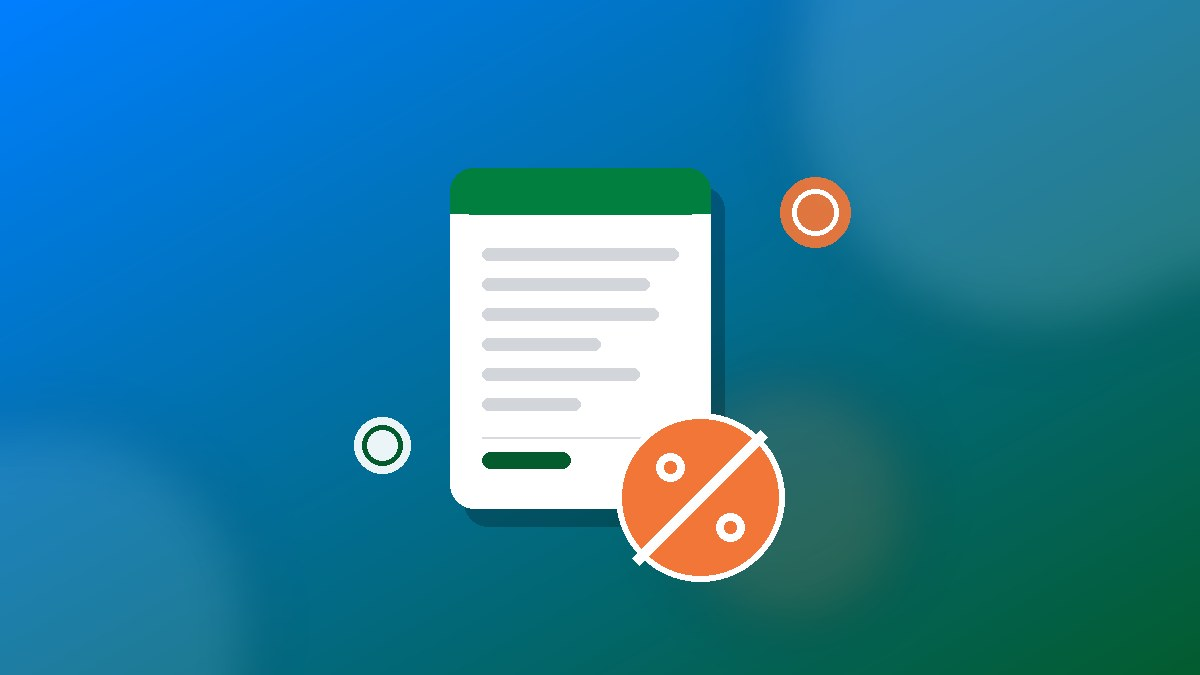
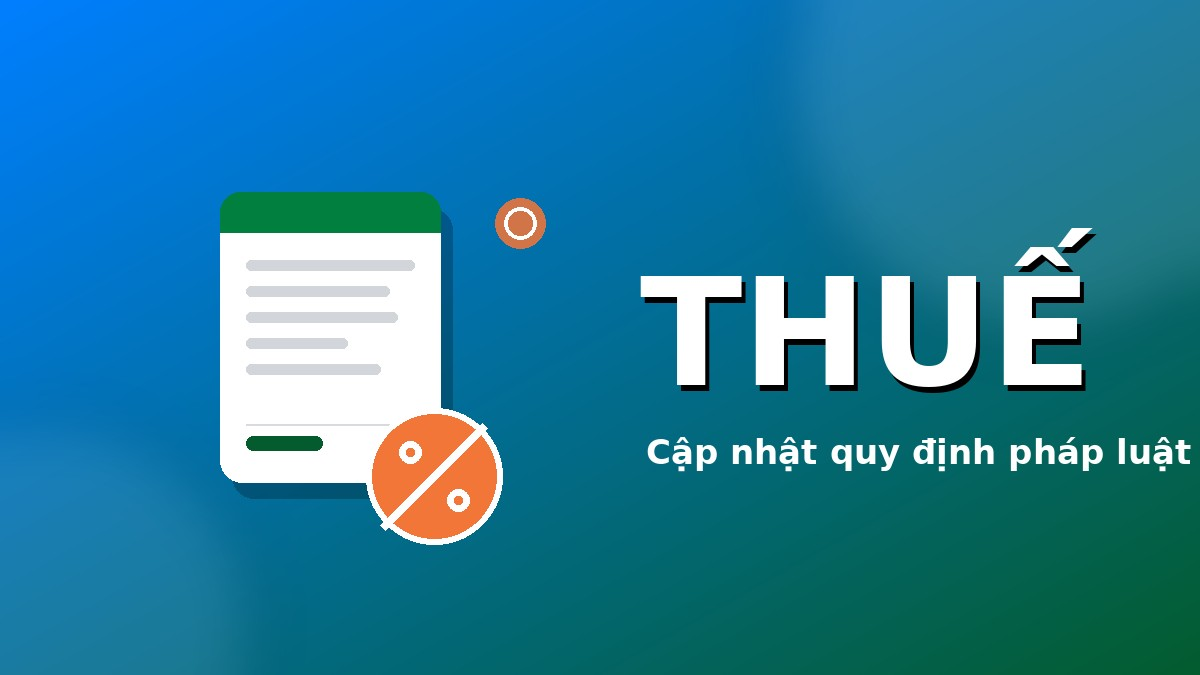
Kiến thức pháp luật: đưa Thuế lên đầu, thêm chữ THUẾ vào ảnh, gọn khoảng cách tiêu đề (#41)
Theo yêu cầu:

- page-hero.tsx: giảm khoảng cách giữa tiêu đề và đoạn mô tả (mt-4 ->
  mt-3), giảm giãn dòng đoạn mô tả (leading-relaxed -> leading-snug) —
  áp dụng cho PageHero dùng chung mọi trang, khoảng trống giữa 2 dòng
  mô tả gọn hơn
- types.ts: đưa "thue" lên đầu `categoryLabels` — chủ đề Thuế được
  khách hàng quan tâm nhiều, giờ hiển thị đầu tiên ở cả tab lọc danh
  mục và lưới chủ đề "Tất cả" tại trang Kiến thức pháp luật (thứ tự
  khai báo trong categoryLabels quyết định thứ tự hiển thị)
- public/thue/thue.jpg: vẽ lại ảnh minh hoạ — thêm chữ "THUẾ" cỡ lớn
  (font DejaVu Sans Bold, đủ dấu tiếng Việt) kèm dòng phụ đề, giữ biểu
  tượng hoá đơn + huy hiệu phần trăm, để dễ nhận biết chủ đề ngay trên
  ảnh thay vì chỉ dựa vào nhãn danh mục bên dưới

Đã build + lint sạch, kiểm tra bằng Playwright screenshot trang Kiến
thức pháp luật — khoảng cách tiêu đề/mô tả gọn hơn, tab và thẻ Thuế lên
đầu tiên, ảnh Thuế hiển thị rõ chữ "THUẾ", không lỗi bố cục.

Claude-Session: https://claude.ai/code/session_014EntLSrwsdq3n8QaFrRqH5

Changed region(s): [[0.185, 0.2489, 1.0, 0.9022], [0.6475, 0.2489, 0.7092, 0.3733]]

diff --git a/src/lib/types.ts b/src/lib/types.ts
@@ -69,13 +69,16 @@ export type ContactSubmission = {
   message: string;
 };
 
+// Thuế đặt đầu tiên vì là chủ đề được khách hàng quan tâm, tìm đọc nhiều
+// nhất — thứ tự khai báo ở đây quyết định thứ tự hiển thị của tab lọc danh
+// mục và lưới chủ đề ở trang Kiến thức pháp luật.
 export const categoryLabels: Record<ArticleCategory | "chung", string> = {
+  thue: "Thuế",
   "doanh-nghiep": "Doanh nghiệp",
   "dan-su": "Dân sự",
   "lao-dong": "Lao động",
   "dat-dai": "Đất đai - Bất động sản",
   "hon-nhan-gia-dinh": "Hôn nhân & Gia đình",
   "hinh-su": "Hình sự",
-  thue: "Thuế",
   chung: "Chung",
 };

diff --git a/src/components/ui/page-hero.tsx b/src/components/ui/page-hero.tsx
@@ -36,7 +36,7 @@ export function PageHero({
           {title}
         </h1>
         {description ? (
-          <p className="mt-4 max-w-2xl text-sm leading-relaxed text-ink/60 sm:text-base">
+          <p className="mt-3 max-w-2xl text-sm leading-snug text-ink/60 sm:text-base">
             {description}
           </p>
         ) : null}
